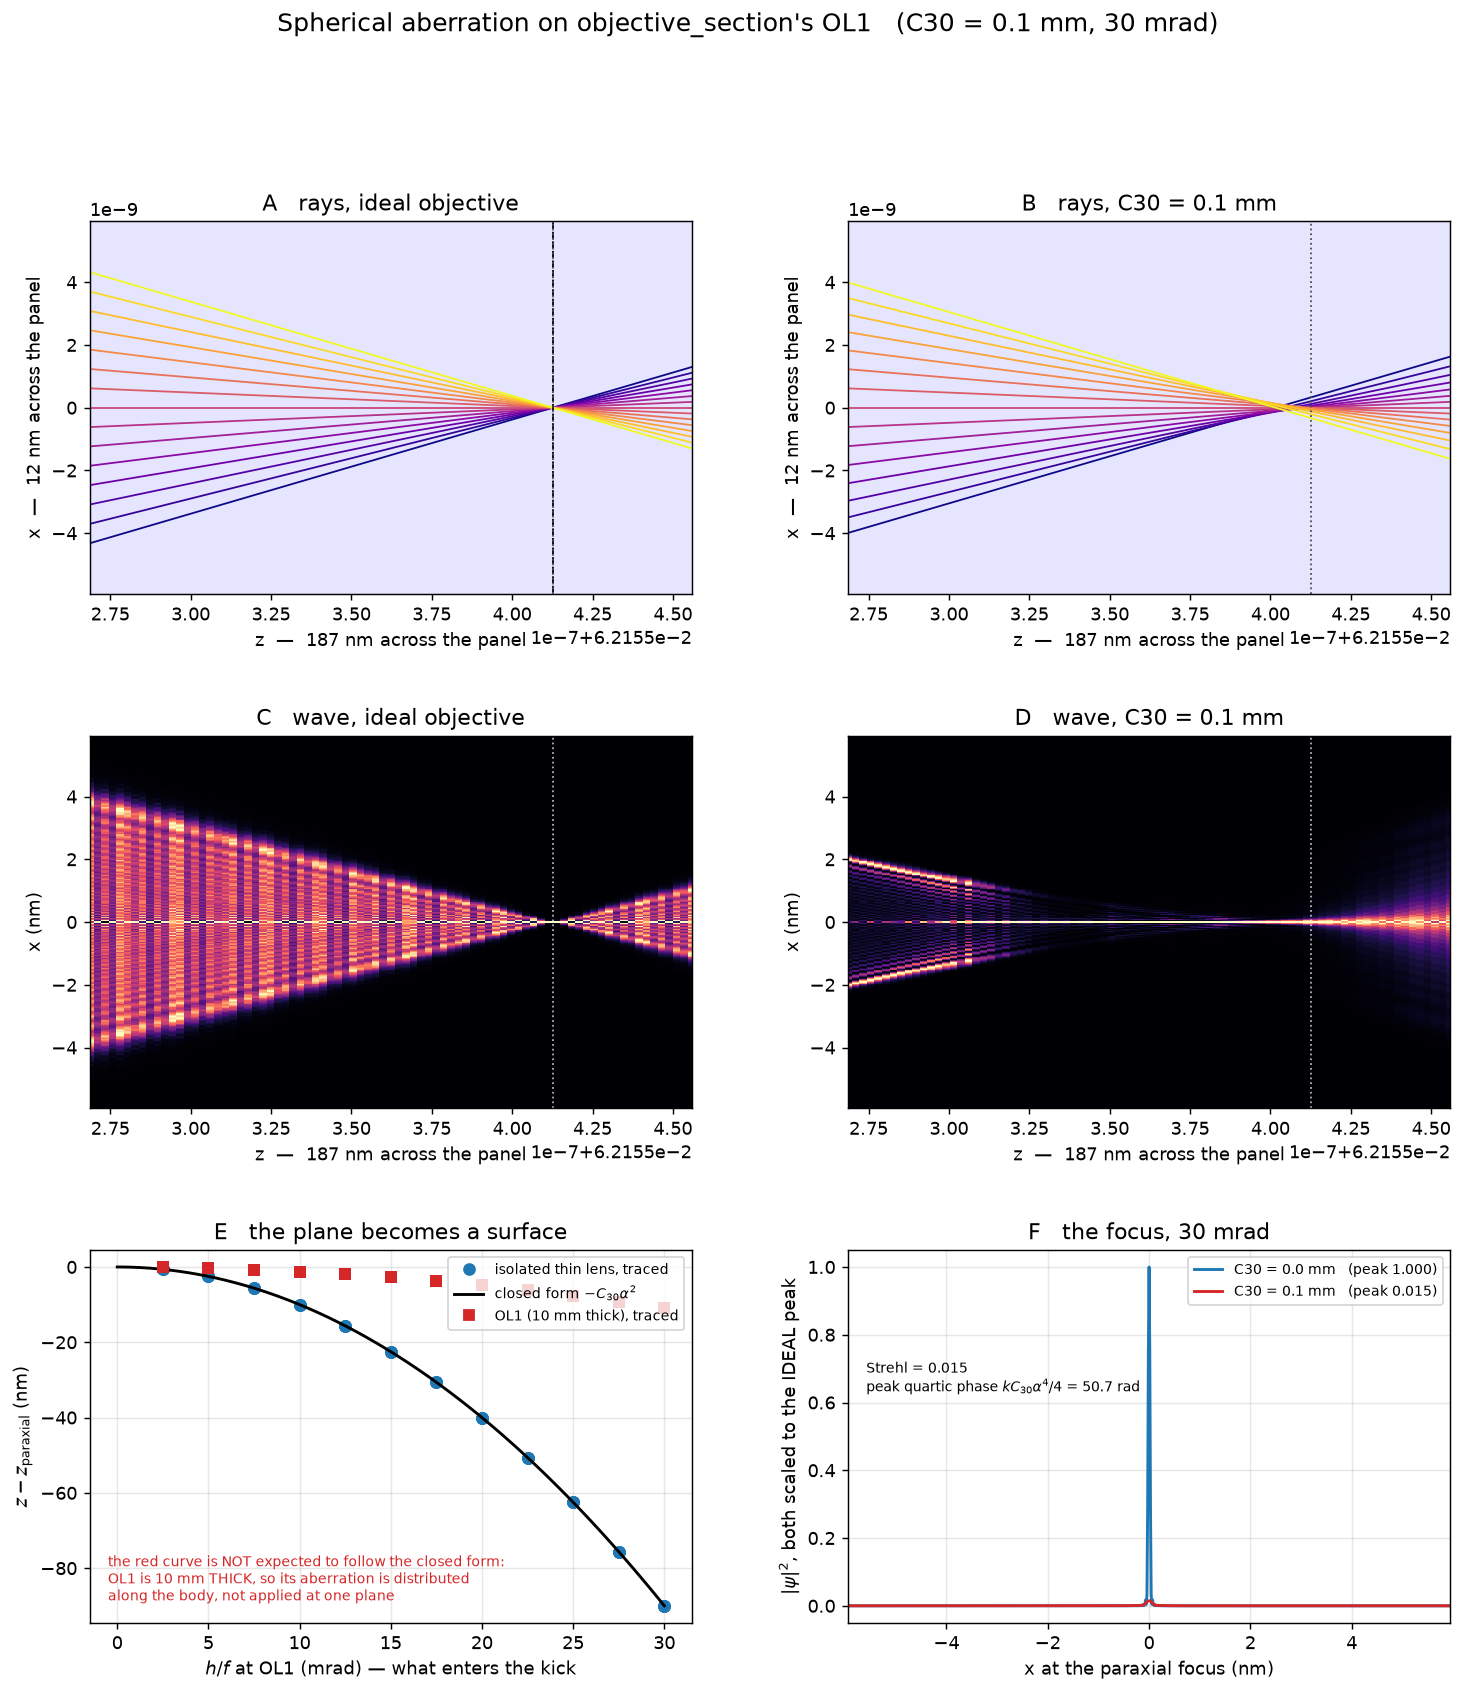
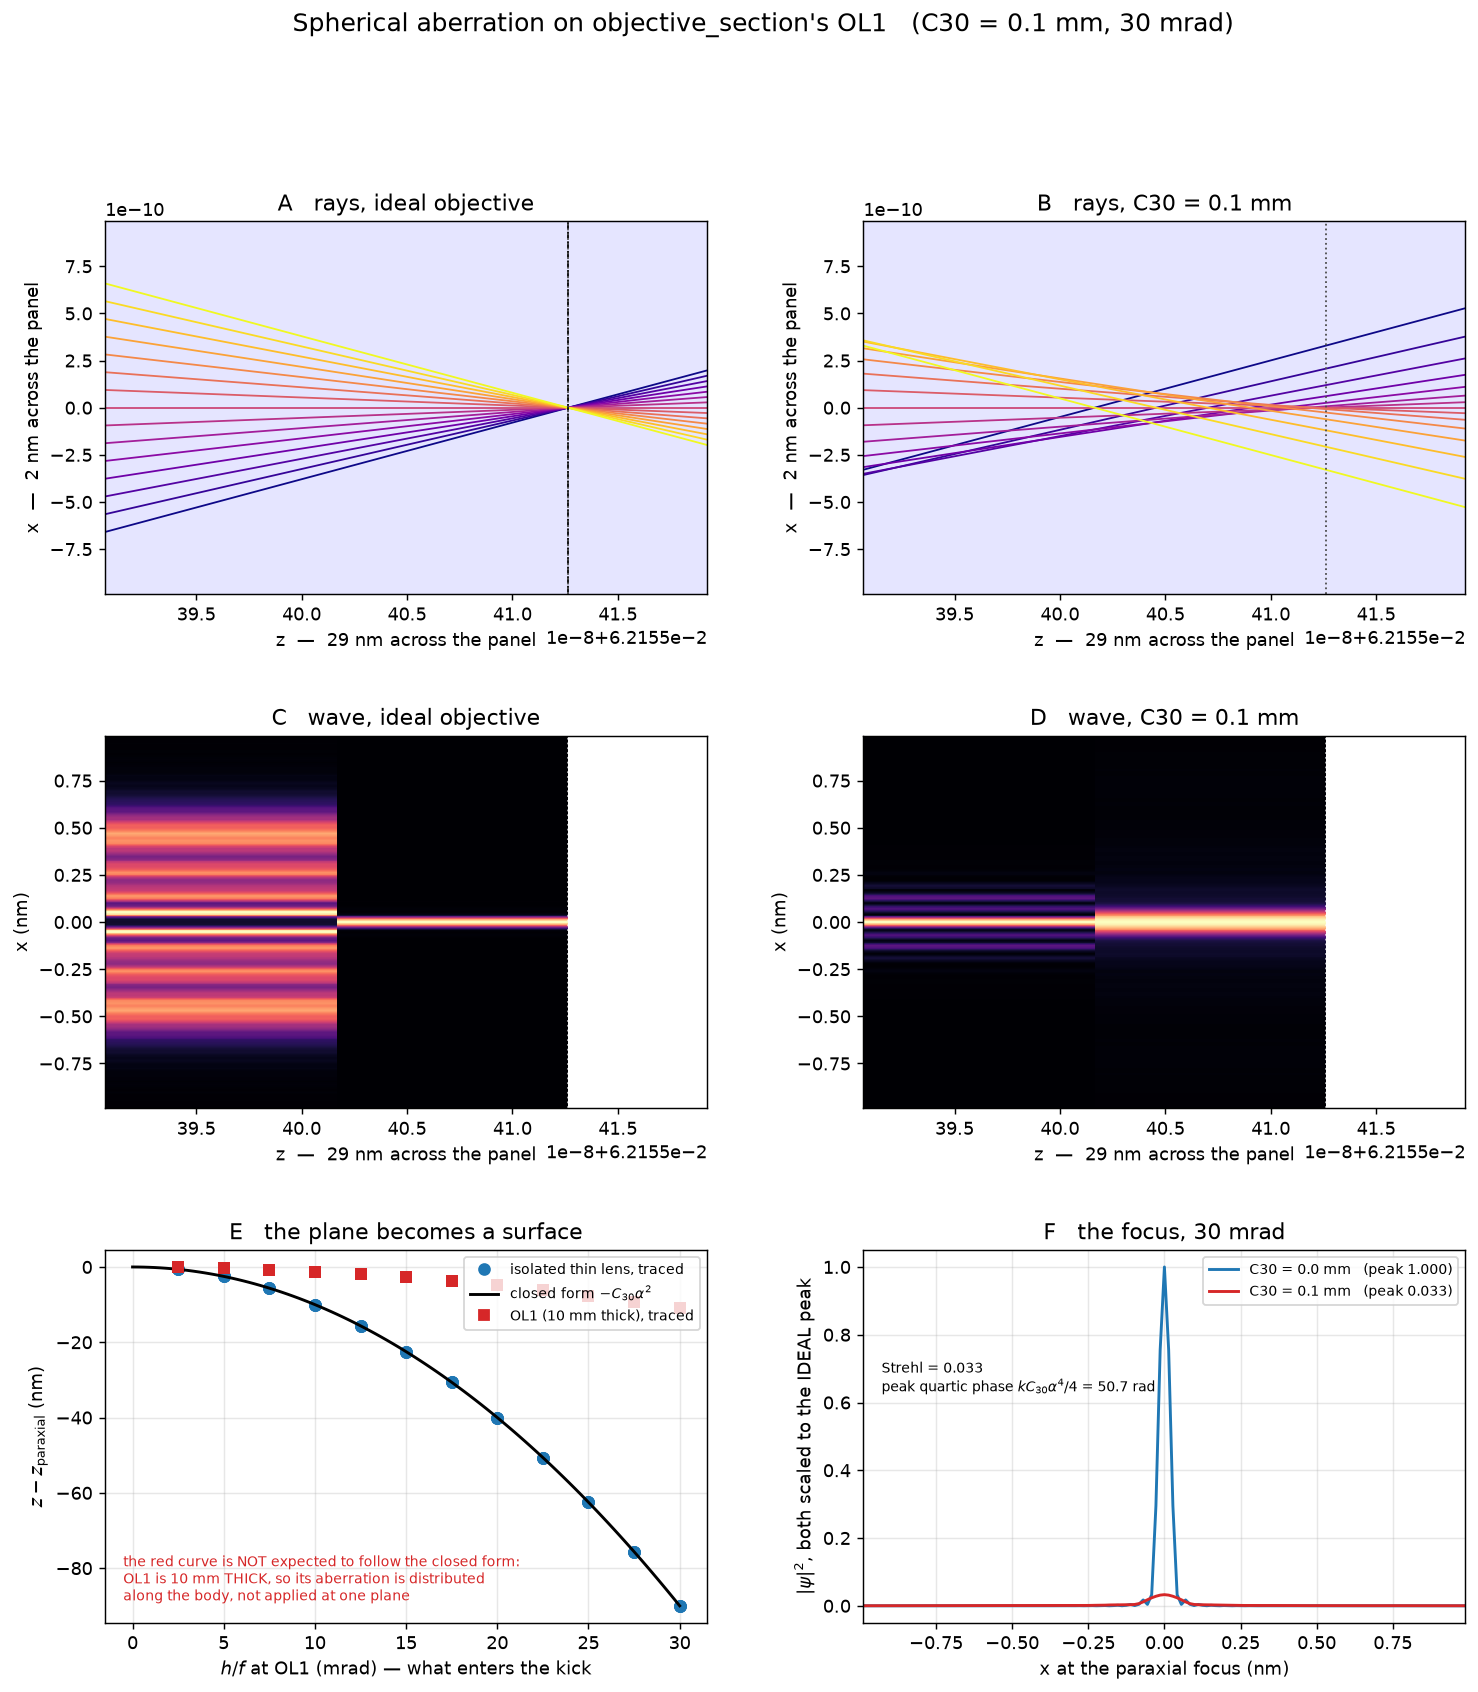
waveoptics: a sub-nanometre segment was skipped in silence
Both scaled engines compared step sizes against

    tol = 1e-9 * (abs(dz) + abs(z) + 1.0)

whose `+ 1.0` term makes it an ABSOLUTE ~1 nm floor however short the segment
is. `while remaining > tol` was then false on the first pass for any drift
under a nanometre: the loop never ran, the field was returned untouched, and z
never advanced. No error, no warning -- the plane simply reported the z it
already had.

That is exactly the step size wanted when resolving a focus. Found while
building a wave cross-section through a caustic tens of nanometres long: 80
sub-nanometre drifts produced 80 planes all reporting the same z, which showed
up as a blank band in the figure.

The tolerance is now relative to the magnitudes being compared, with no
absolute floor. float64 carries ~1e-16 relative, so 1e-12 leaves orders of
margin for what it is for -- a float comparison on split positions.

Claude-Session: https://claude.ai/code/session_01RAd3Xf28wH7udEThFAjuTE

diff --git a/src/pySEA/rayTEM/tests/test_scaled_fresnel.py b/src/pySEA/rayTEM/tests/test_scaled_fresnel.py
@@ -2657,3 +2657,30 @@ def test_a_thick_medium_still_applies_its_screen():
 	# an ideal thick lens with nothing attached must be BIT-FOR-BIT unchanged --
 	# the split must not perturb the common case
 	assert np.array_equal(run(), ideal)
+
+
+def test_a_sub_nanometre_drift_actually_propagates():
+	# The hybrid/scaled engines compared step sizes against a tolerance carrying
+	# a `+ 1.0` term, which made it an ABSOLUTE ~1 nm floor no matter how short
+	# the segment was. Any drift under a nanometre was skipped in silence and z
+	# never advanced -- exactly the step size wanted when resolving a focus,
+	# where a caustic is tens of nanometres long.
+	from pySEA.rayTEM.seashells import read_scaled_wavefield
+	src = Source(voltage=200, wave_shape=(64, 64), wave_extent=1e-5,
+				 wave_kind="aperture", aperture_radius=2e-6)
+	step = 3.57e-10
+	for mode in ("scaled", "hybrid"):
+		w = src.wave(mode="scaled")
+		assert read_scaled_wavefield(w)[7] == 0.0
+		for i in range(3):
+			w = Drift(length=step).propagate_wave(w, mode=mode, absorb=0.0)
+			z = read_scaled_wavefield(w)[7]
+			assert np.isclose(z, (i + 1) * step, rtol=1e-9), (mode, i, z)
+	# and the field is genuinely transported, not merely relabelled: over a
+	# distance this short a converging beam still changes measurably
+	far = Drift(length=1e-3).propagate_wave(src.wave(mode="scaled"), mode="hybrid",
+											absorb=0.0)
+	near = Drift(length=step).propagate_wave(src.wave(mode="scaled"), mode="hybrid",
+											 absorb=0.0)
+	assert not np.allclose(np.asarray(read_scaled_wavefield(far)[0]),
+						   np.asarray(read_scaled_wavefield(near)[0]))

diff --git a/src/pySEA/rayTEM/waveoptics.py b/src/pySEA/rayTEM/waveoptics.py
@@ -1087,7 +1087,13 @@ def propagate_quadratic_segment_hybrid(U: np.ndarray, dxi: float, deta: float,
 			f"an isotropic segment and frame (got kappa = {kappa}, s = {s}, R = {R}).")
 
 	k = 2 * np.pi / wavelength
-	tol = 1e-9 * (abs(dz) + abs(z) + 1.0)
+	# Relative to the magnitudes actually being compared. The old form carried
+	# a `+ 1.0` term, which made this an ABSOLUTE ~1 nm floor however short the
+	# segment was -- so any drift under a nanometre fell below it and was
+	# skipped in silence, leaving z unadvanced. That is precisely the step size
+	# wanted when resolving a focus. float64 carries ~1e-16 relative, so 1e-12
+	# is still orders of margin for a float comparison on split positions.
+	tol = 1e-12 * (abs(dz) + abs(z) + abs(dxi) + abs(deta))
 	names, pitches = ("x", "y"), (abs(dxi), abs(deta))
 	if z_cross is None:
 		zc = [None, None]
@@ -1940,7 +1946,9 @@ def propagate_free_scaled_hybrid(U: np.ndarray, dxi: float, deta: float,
 	remaining = float(dz)
 	logged = []
 	U = U.astype(complex, copy=True)
-	tol = 1e-9 * (abs(dz) + abs(z) + 1.0)		# float tolerance on split positions
+	# relative, not absolute: a `+ 1.0` term here silently skipped any segment
+	# shorter than ~1 nm, leaving z unadvanced (see propagate_quadratic_segment_scaled)
+	tol = 1e-12 * (abs(dz) + abs(z) + abs(dxi) + abs(deta))
 	isotropic = (np.ndim(s) == 0 and np.ndim(R) == 0
 				 and (z_cross is None or np.ndim(z_cross) == 0))
 	if not isotropic:

diff --git a/examples/06_aberratedObjective.py b/examples/06_aberratedObjective.py
@@ -150,10 +150,13 @@ ideal, aberrated = scope(0.0), scope(C30)
 for m in (ideal, aberrated):
 	m.propagate_ray()
 Z_PAR = float(ideal.conjugate_planes(axis="x")["diff"][0])
-# the caustic's own scales, with only a little margin: longitudinal spherical
-# aberration C30*alpha^2 in z, transverse C30*alpha^3 in x
-DZ = 1.6 * C30 * ALPHA ** 2
-X_HALF = 2.2 * C30 * ALPHA ** 3
+# The caustic's own scales, but for what OL1 ACTUALLY delivers: it is 10 mm
+# thick, so its aberration is distributed along the body and comes out at
+# ~0.12x the thin-lens closed form (panel E measures this). Framing on the
+# closed form would leave the caustic in the middle few pixels.
+THICK = 0.122
+DZ = 2.0 * THICK * C30 * ALPHA ** 2			# longitudinal, C30*alpha^2
+X_HALF = 3.0 * THICK * C30 * ALPHA ** 3		# transverse, C30*alpha^3
 Z_LO, Z_HI = Z_PAR - DZ, Z_PAR + 0.3 * DZ
 
 fig = plt.figure(figsize=(13.5, 14))
